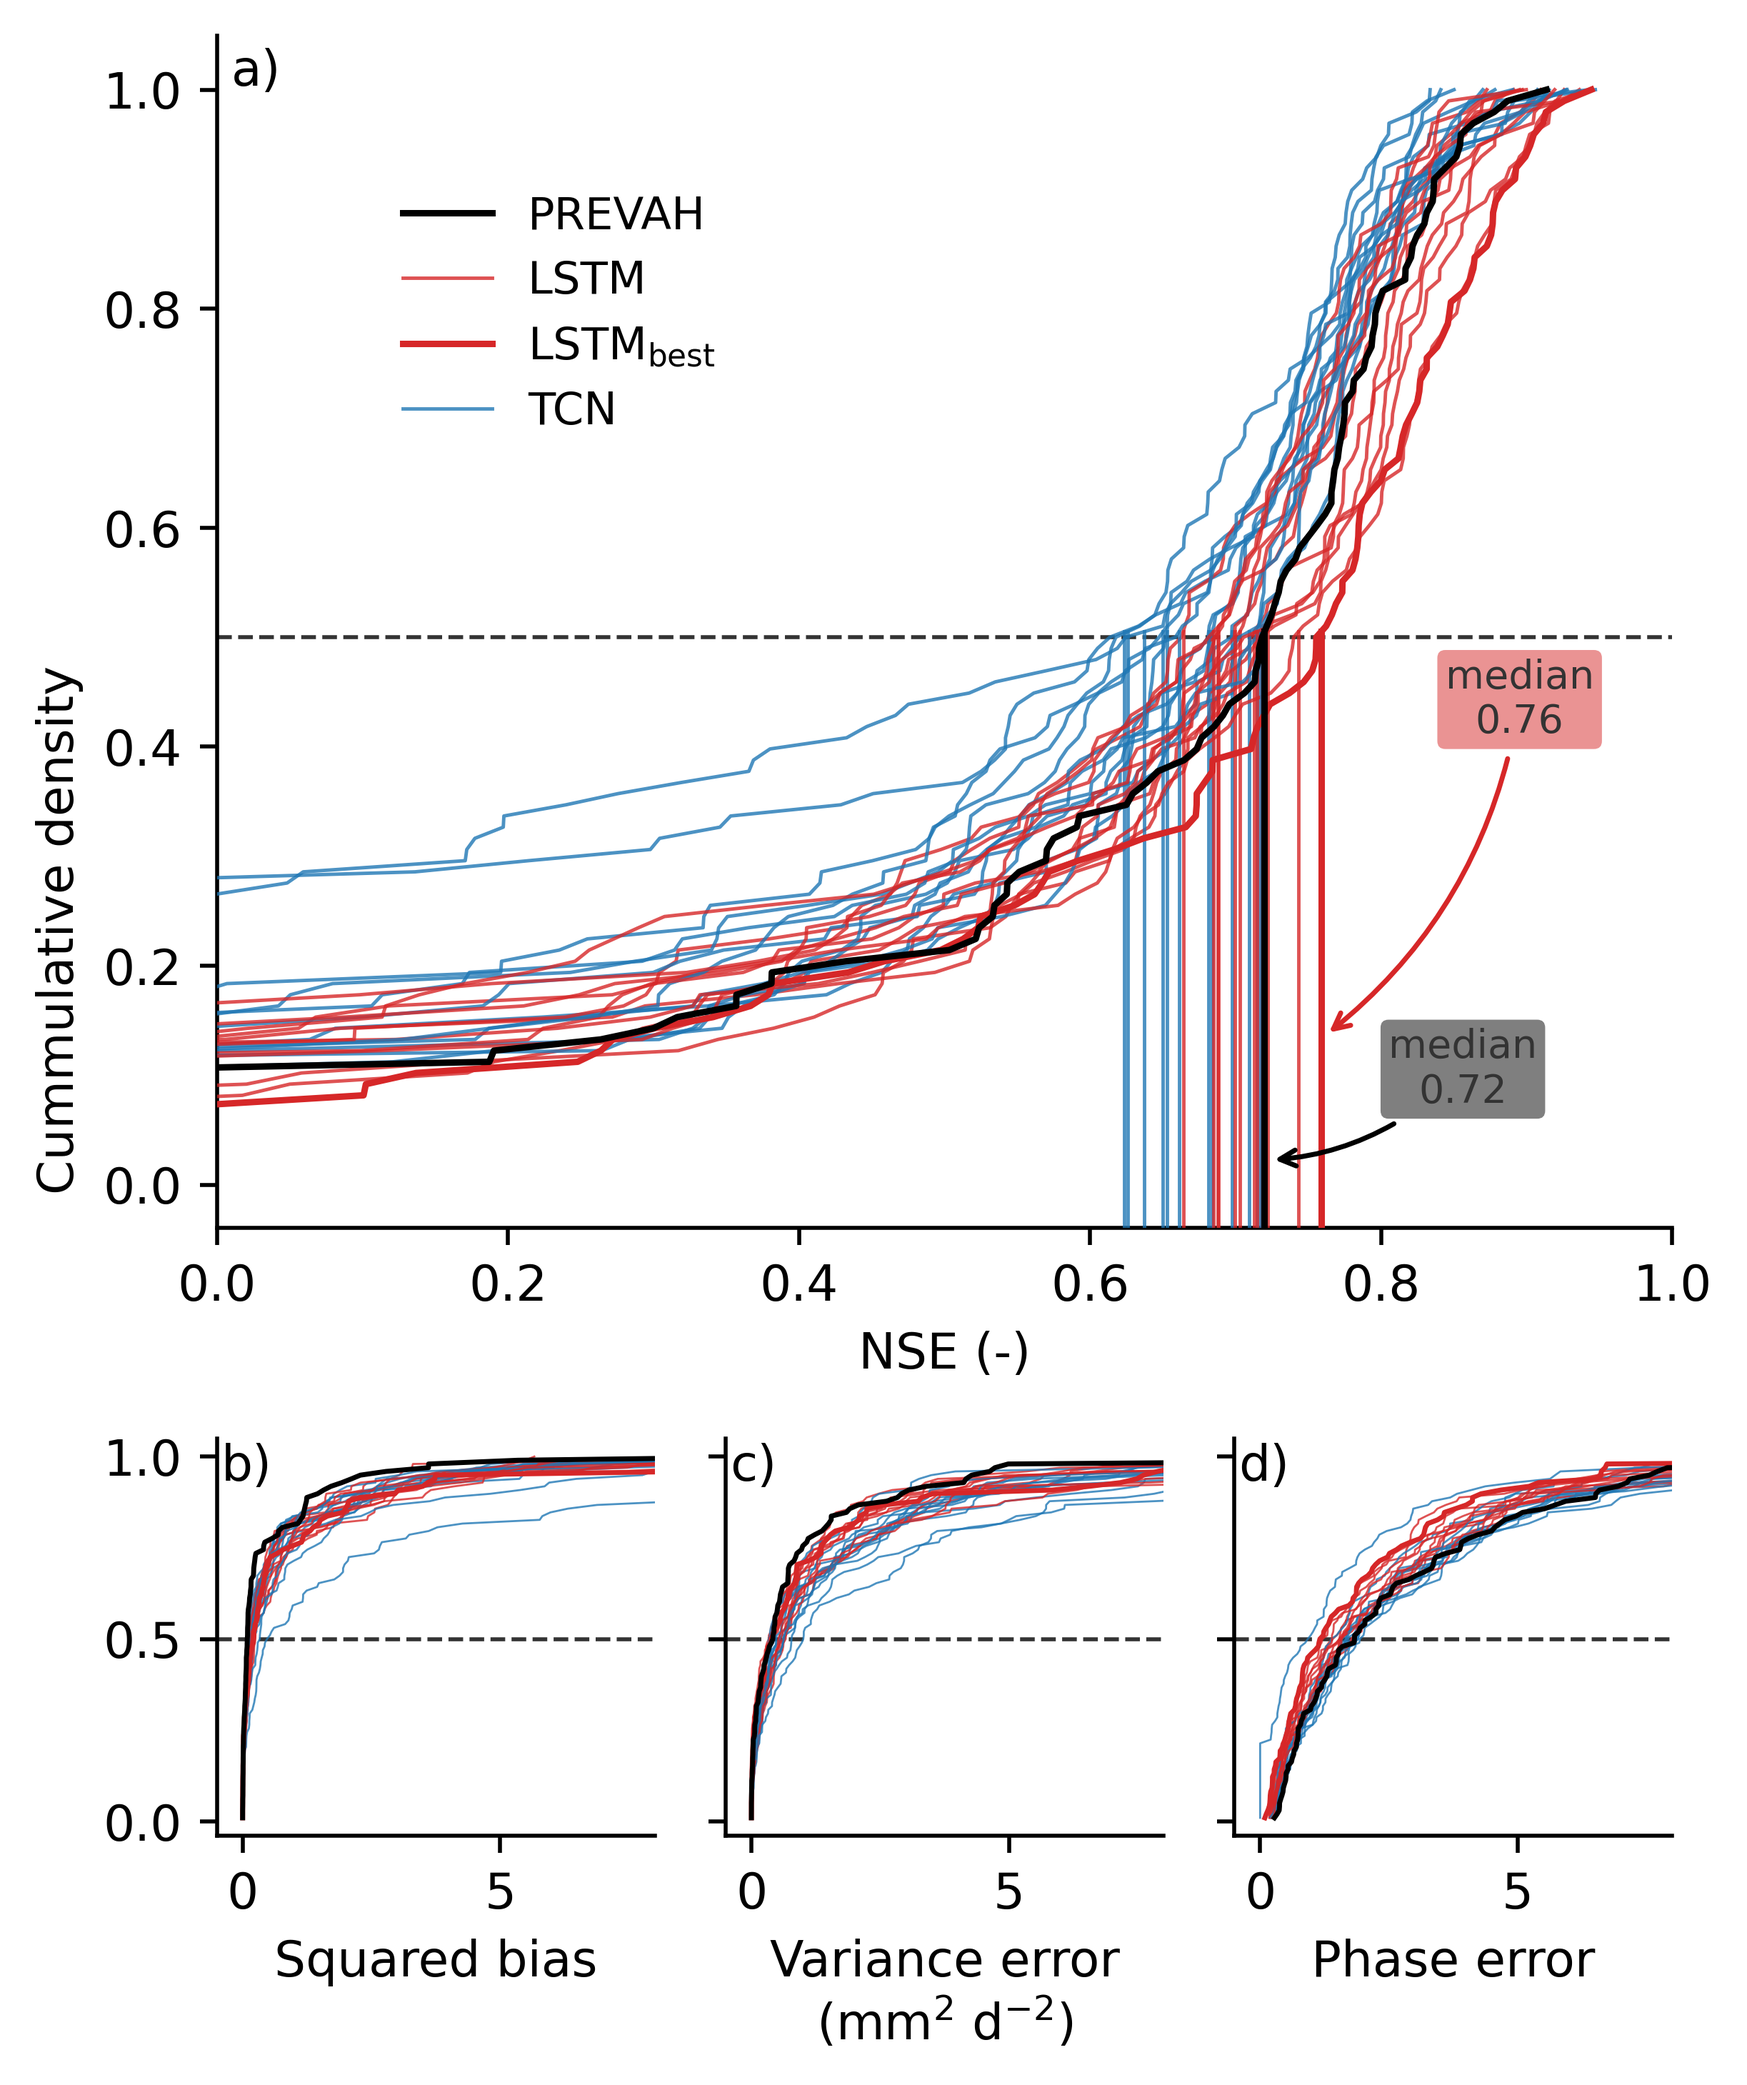
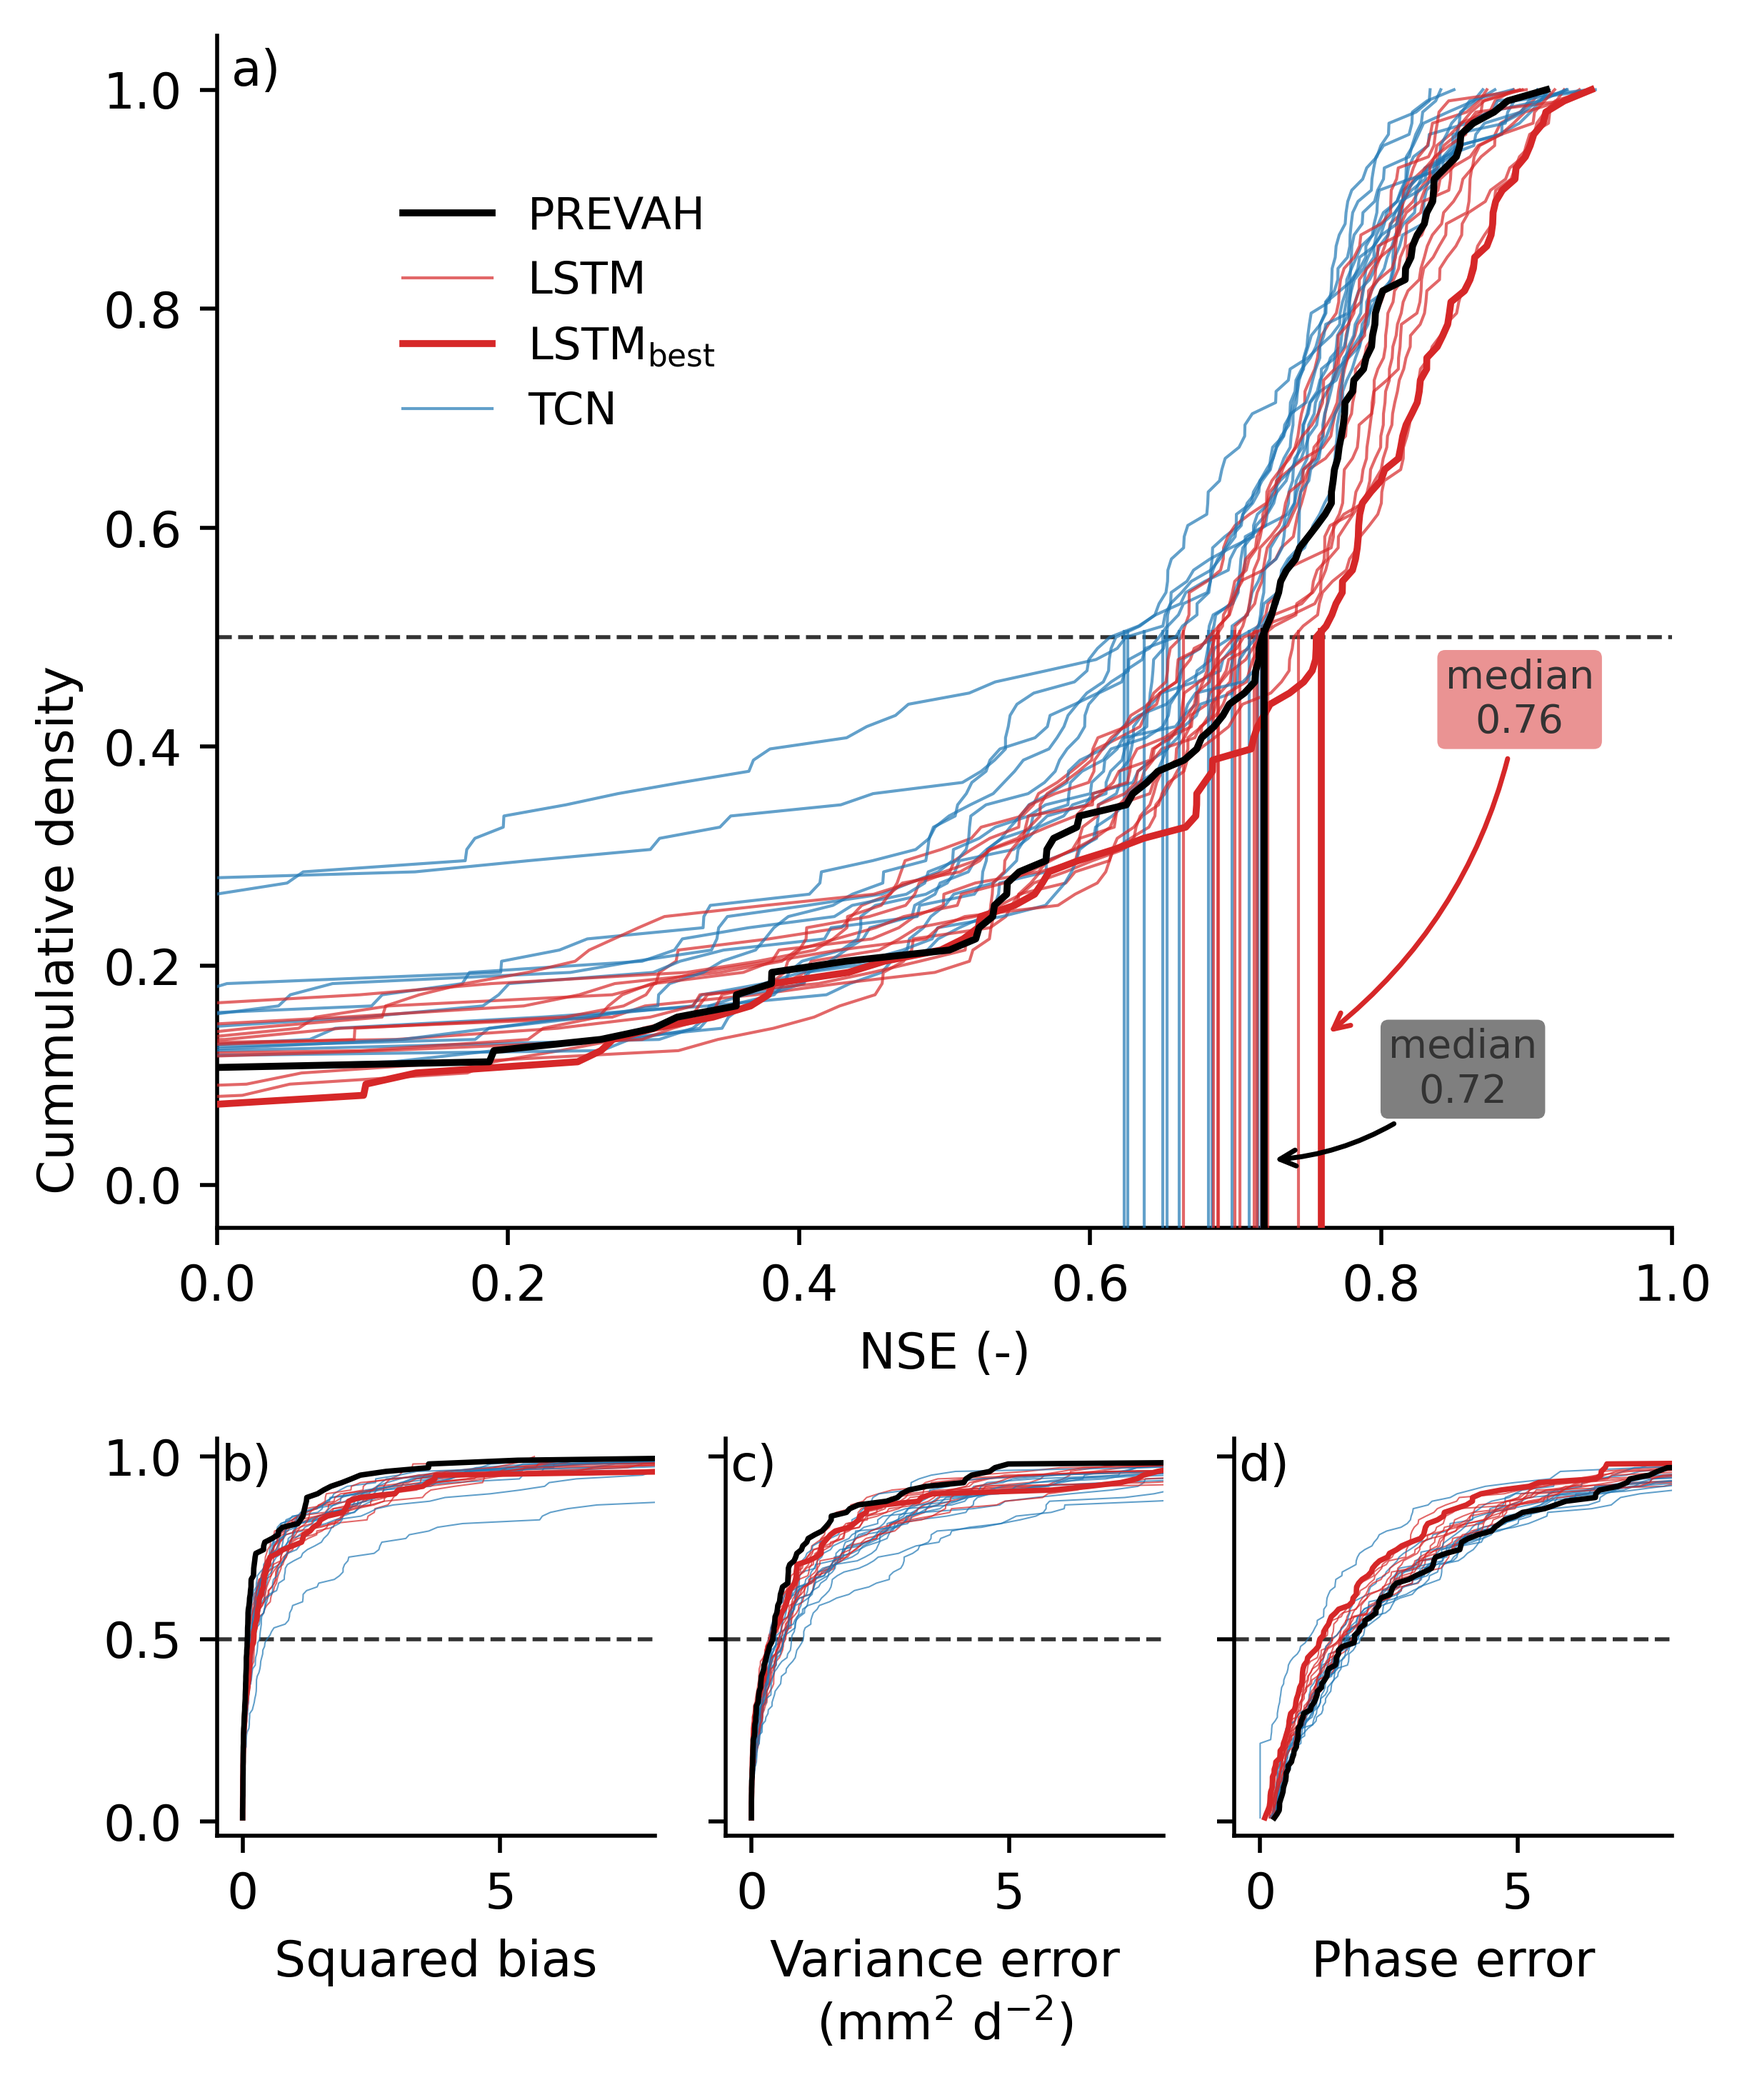
figure tweaking

diff --git a/analysis/model_vis.py b/analysis/model_vis.py
@@ -108,14 +108,14 @@ for i, metric in enumerate(metrics):
             col = 'k'
             style = '-'
             zorder = 10
-            lw = 1.3
+            lw = 1.4
             alpha = 1
             add_annot = 10
             label = 'PREVAH'
         else:
             zorder = 8
-            lw = 0.7
-            alpha = 0.8
+            lw = 0.6
+            alpha = 0.7
             add_annot = 0
             if run.startswith('TCN'):
                 # col = next(tcn_colors)
@@ -133,7 +133,7 @@ for i, metric in enumerate(metrics):
             if run == best_run:
                 # col = 'tab:green'
                 alpha = 1
-                lw = 1.3
+                lw = 1.4
                 zorder = 9
                 add_annot = 60
                 label = r'LSTM$_\mathrm{best}$'
